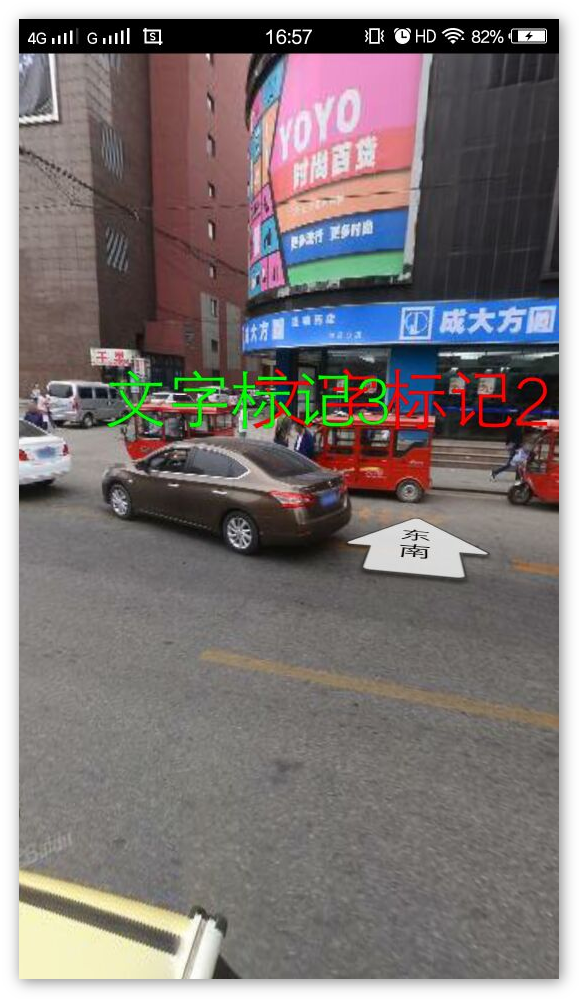
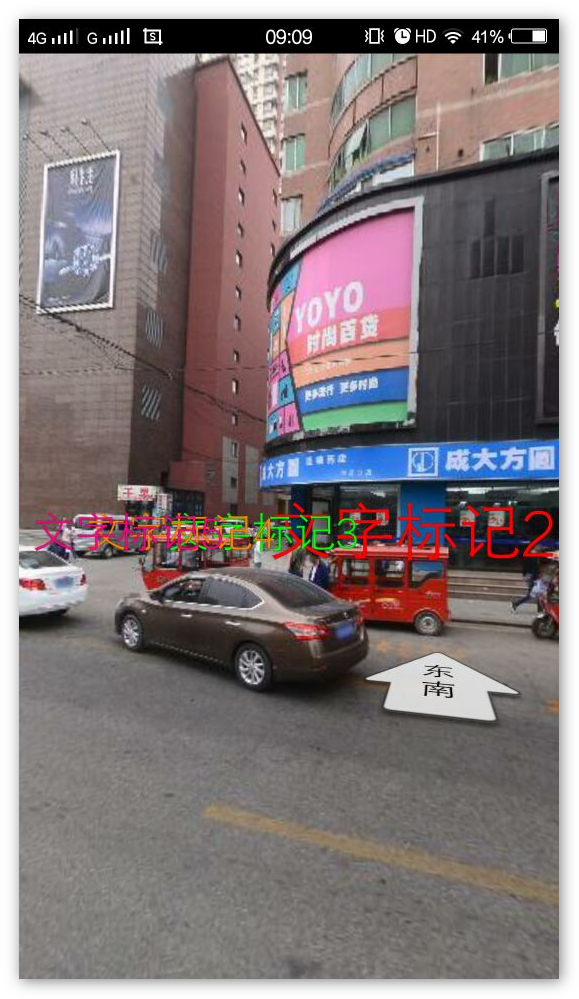
do_BaiduPanoramaView更新

diff --git a/content/UI组件API/sections/do_BaiduPanoramaView.md b/content/UI组件API/sections/do_BaiduPanoramaView.md
@@ -6,6 +6,7 @@ title: do_BaiduPanoramaView 组件
 
  支持平台: iOS7.0,Android4.0
  百度全景图是一种实景地图服务。为用户提供城市、街道和其他环境的360度全景图像，用户可以通过该服务获得如临其境的地图浏览体验。全景地图使用新的地图技术，营造新的产品体验。真正实现“人视角”的地图浏览体验，为用户提供更加真实准确、更富画面细节的地图服务。
+ 参考[示例](https://github.com/do-api/docs-example/tree/master/source/view/do_BaiduPanoramaView
 
 #### <font color ='#40A977'>**1.**</font> 属性
 
@@ -40,9 +41,12 @@ title: do_BaiduPanoramaView 组件
   var do_BaiduPanoramaView = ui("do_BaiduPanoramaView_1");
 
   //显示全景图
-  do_BaiduPanoramaView.showPanoramaView({"latitude":"41.867335","longitude":"123.90583"});
+  do_BaiduPanoramaView.showPanoramaView({
+  	"latitude" : "41.867335",
+  	"longitude" : "123.90583"
+  });
   ```
- 下图所示是经纬度为123.90583，41.867335的实景图：
+ 下图所示是经度123.90583，纬度41.867335的全景图：
  ![](../../images/realmap.png)
 [回到顶部](#top)
 
@@ -53,22 +57,48 @@ title: do_BaiduPanoramaView 组件
   名称 | 类型 |必填|默认值|说明
   ---- |------|------|------|------
   **data** |<font color ='#808000'>**object**</font> | 是 | |[{id:标记ID,用户自定义标记唯一ID,latitude:纬度,longitude:经度,url:缩略图地址},...]，其中id必须唯一
-- 返回值类型 : <font color ='#808000'>**Boolean**</font>
+- 返回值类型 : <font color ='#808000'>**boolean**</font>
 - 返回值描述: true 成功 false 失败
-- 说明: 将一组经纬度用缩略图在百度地图标记出来,缩略图地址为 data:// source:// 打头的URI格式，不能包含@符号。其中文件格式说明可参考Storage类；iOS8.0以下不支持
+- 说明: 将一组经纬度用缩略图在百度地图标记出来,缩略图地址为 data:// source:// 打头的URI格式，不能包含@符号。其中文件格式说明可参考Storage类；iOS8.0以下不支持。参数示例
+  ```
+[
+    {
+        id:标记ID,用户自定义标记唯一ID,
+        latitude:纬度,
+        longitude:经度,
+        url:缩略图地址
+    },
+    ...
+]
+  ```
 - 示例:
 
   ```javascript
   //添加一组缩略图标记
- do_BaiduPanoramaView.addImageMarkers([
-	  {"id":"id1","latitude":"41.867335","longitude":"123.90583","url":"source://view/do_BaiduPanoramaView/location.png"},
-	  {"id":"id2","latitude":"41.767335","longitude":"123.90583","url":"source://view/do_BaiduPanoramaView/location.png"},
-	  {"id":"id3","latitude":"41.667335","longitude":"123.90583","url":"source://view/do_BaiduPanoramaView/location.png"},
-	  {"id":"id4","latitude":"41.567335","longitude":"123.90583","url":"source://view/do_BaiduPanoramaView/location.png"}
- ])
+  do_BaiduPanoramaView.addImageMarkers([ {
+  	"id" : "id1",
+  	"latitude" : "41.867335",
+  	"longitude" : "123.90583",
+  	"url" : "source://view/do_BaiduPanoramaView/location.png"
+  }, {
+  	"id" : "id2",
+  	"latitude" : "41.857335",
+  	"longitude" : "123.90583",
+  	"url" : "source://view/do_BaiduPanoramaView/location.png"
+  }, {
+  	"id" : "id3",
+  	"latitude" : "41.847335",
+  	"longitude" : "123.90583",
+  	"url" : "source://view/do_BaiduPanoramaView/location.png"
+  }, {
+  	"id" : "id4",
+  	"latitude" : "41.837335",
+  	"longitude" : "123.90583",
+  	"url" : "source://view/do_BaiduPanoramaView/location.png"
+  } ])
 
   ```
-  下图所示是添加一组缩略图标记的实景图：
+  下图所示是添加一组缩略图标记的全景图：
   ![](../../images/addimagemarkers.png)
 [回到顶部](#top)
 
@@ -79,23 +109,65 @@ title: do_BaiduPanoramaView 组件
   名称 | 类型 |必填|默认值|说明
   ---- |------|------|------|------
   **data** |<font color ='#808000'>**object**</font> | 是 | |[{id:标记ID,用户自定义标记唯一ID,latitude:纬度,longitude:经度,text:文字标注的内容,fontColor:字体颜色,fontSize:字体大小},...]，其中id必须唯一
-- 返回值类型 : <font color ='#808000'>**Boolean**</font>
+- 返回值类型 : <font color ='#808000'>**boolean**</font>
 - 返回值描述: true 成功 false 失败
-- 说明:
+- 说明:参数示例
+```
+[
+    {
+        id:标记ID,用户自定义标记唯一ID,
+        latitude:纬度,
+        longitude:经度,
+        text:文字标注的内容,
+        fontColor:字体颜色,
+        fontSize:字体大小
+    },
+    ...
+]
+```
 - 示例:
 
   ```javascript
   //添加一组文本标记
- do_BaiduPanoramaView.addTextMarkers([
-	  {"id":"01","latitude":"40.767335","longitude":"123.80583","text":"文字标记1","fontColor":"00FF00FF","fontSize":30},
-	  {"id":"02","latitude":"41.667335","longitude":"123.70583","text":"文字标记2","fontColor":"FF0000FF","fontSize":32},
-	  {"id":"03","latitude":"42.567335","longitude":"123.60583","text":"文字标记3","fontColor":"00FF00FF","fontSize":30},
-	  {"id":"04","latitude":"43.467335","longitude":"123.50583","text":"文字标记4","fontColor":"FF8000FF","fontSize":28},
-	  {"id":"05","latitude":"44.367335","longitude":"123.40583","text":"文字标记5","fontColor":"FF0080FF","fontSize":26}
- ])
+  do_BaiduPanoramaView.addTextMarkers([ {
+ 	"id" : "01",
+ 	"latitude" : "40.767335",
+ 	"longitude" : "123.80583",
+ 	"text" : "文字标记1",
+ 	"fontColor" : "000000FF",
+ 	"fontSize" : 30
+ }, {
+ 	"id" : "02",
+ 	"latitude" : "40.667335",
+ 	"longitude" : "124.70583",
+ 	"text" : "文字标记2",
+ 	"fontColor" : "FF0000FF",
+ 	"fontSize" : 30
+ }, {
+ 	"id" : "03",
+ 	"latitude" : "40.567335",
+ 	"longitude" : "125.60583",
+ 	"text" : "文字标记3",
+ 	"fontColor" : "00FF00FF",
+ 	"fontSize" : 20
+ }, {
+ 	"id" : "04",
+ 	"latitude" : "40.467335",
+ 	"longitude" : "126.50583",
+ 	"text" : "文字标记4",
+ 	"fontColor" : "FF8000FF",
+ 	"fontSize" : 20
+ }, {
+ 	"id" : "05",
+ 	"latitude" : "40.367335",
+ 	"longitude" : "127.40583",
+ 	"text" : "文字标记5",
+ 	"fontColor" : "FF0080FF",
+ 	"fontSize" : 20
+ } ])
 
   ```
-  下图所示是添加一组文本标记的实景图：
+  下图所示是添加一组文本标记的全景图：
   ![](../../images/addtextmarkers.png)
 [回到顶部](#top)
 
@@ -108,12 +180,23 @@ title: do_BaiduPanoramaView 组件
   **ids** |<font color ='#808000'>**object**</font> | 是 | |要移除的标记ID数组
 - 返回值类型 : <font color ='#808000'>**无**</font>
 - 返回值描述: 无
-- 说明: 移除一组指定标记
+- 说明: 移除一组指定标记，参数示例
+  ```
+{
+    ids:[
+        "id1",
+        "id2",
+        ...  
+    ]
+}
+  ```
 - 示例:
 
   ```javascript
   //移除一组指定标记
-	do_BaiduPanoramaView.removeMarker({ids:["01","02","03","04","05"]});
+  do_BaiduPanoramaView.removeMarker({
+		ids : [ "01", "02", "03", "04", "05" ]
+	});
 
   ```
 
@@ -143,15 +226,24 @@ title: do_BaiduPanoramaView 组件
 >###### <font color ='#e96900'>**touchMarker**</font>: 点击标记时触发
 
 - 返回值类型 : <font color ='#808000'>**object**</font>
-- 返回值描述: [{id:标记ID,用户自定义标记唯一ID,latitude:纬度,longitude:经度,type:ImageMark|TextMark,info:当type为ImageMark时返回缩略图地址|当type为TextMark时返回文字标注内容}]
+- 返回值描述:
+  ```
+{
+    id:标记ID,用户自定义标记唯一ID,
+    latitude:纬度,
+    longitude:经度,
+    type:ImageMark|TextMark,
+    info:当type为ImageMark时返回缩略图地址|当type为TextMark时返回文字标注内容
+}
+  ```
 - 说明: 点击标记时触发
 - 示例:
 
   ```javascript
   //点击标记时触发该事件
- do_BaiduPanoramaView.on("touchMarker",function(data){
-	  deviceone.print(JSON.stringify(data),"点击标记");
- })
+  do_BaiduPanoramaView.on("touchMarker", function(data) {
+  	  deviceone.print(JSON.stringify(data), "点击标记");
+  });
 
   ```
 
